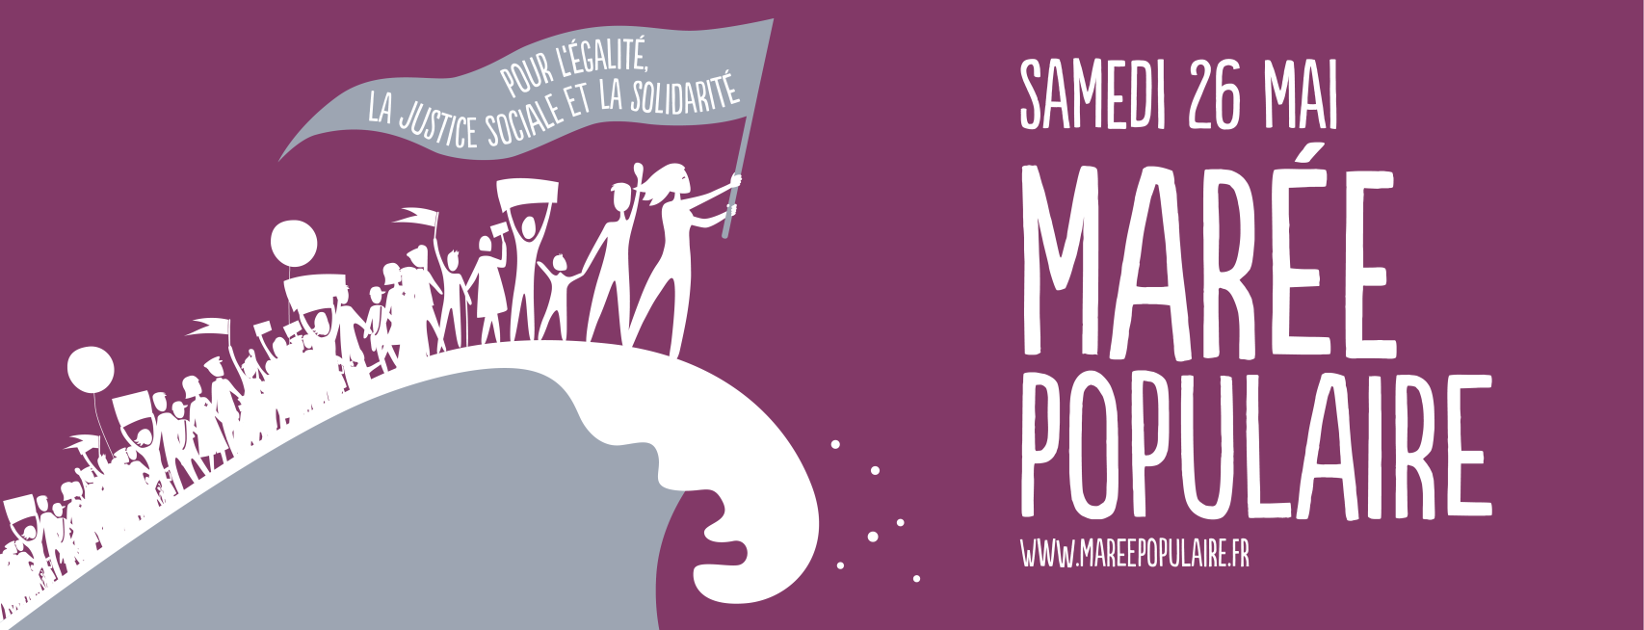
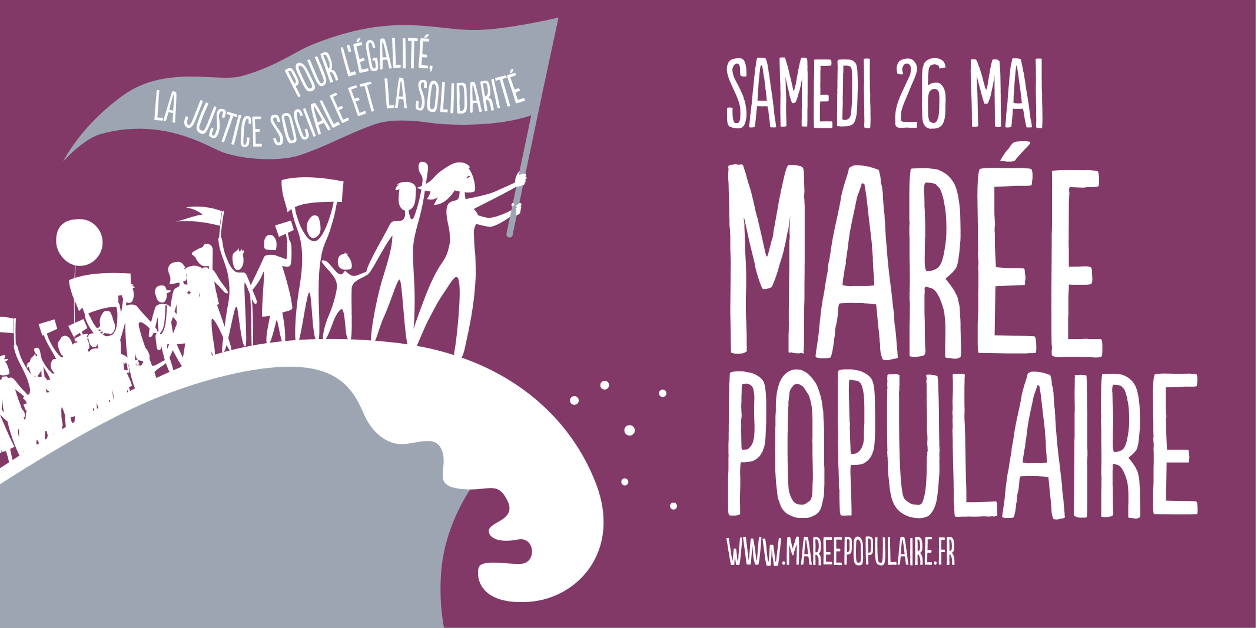
Met à jour fichiers partage + opengraph

Changed region(s): [[0.0, 0.0303, 1.0, 1.0], [0.5589, 0.0908, 0.9626, 0.9076]]

diff --git a/index.html b/index.html
@@ -2,11 +2,27 @@
 layout: layout
 title: Accueil
 opengraph:
-  title: La Marée populaire
-  image: https://mareepopulaire.fr/public/img/partage-fb.png
-  "image:width": 1644
-  "image:height": 630
-  description:  Pour l’égalité, la justice sociale et la solidarité, marée populaire le samedi 26 mai
+  - key: title
+    value: La Marée populaire
+  - key: type
+    value: website
+  - key: image
+    value: /public/img/partage-fb.png
+    url: yes
+  - key: "image:width"
+    value: 1256
+  - key: "image:height"
+    value: 628
+  - key: image
+    value: /public/img/partage-twitter.png
+    url: yes
+  - key: "image:width"
+    value: 1024
+  - key: "image:height"
+    value: 512
+  - key: description
+    value:  Pour l’égalité, la justice sociale et la solidarité, marée populaire le samedi 26 mai
+
 ---
 <div class="Intro">
     <div class="intro-col">

diff --git a/_layouts/layout.html b/_layouts/layout.html
@@ -35,8 +35,13 @@
             integrity="sha384-8iPTk2s/jMVj81dnzb/iFR2sdA7u06vHJyyLlAd4snFpCl/SnyUjRrbdJsw1pGIl" crossorigin="anonymous"></script>
     <script async src="https://platform.twitter.com/widgets.js" charset="utf-8"></script>
 
+    <meta property="og:url" content="{{site.url}}{{ page.url }}" />
     {% for item in page.opengraph %}
-    <meta property="og:{{ item[0] }}" content="{{ item[1] }}" />
+        {% if item.url %}
+            <meta property="og:{{ item.key }}" content="{{ site.url }}{{ item.value }}" />
+        {% else %}
+            <meta property="og:{{ item.key }}" content="{{ item.value }}" />
+        {% endif %}
     {% endfor %}
 
 
